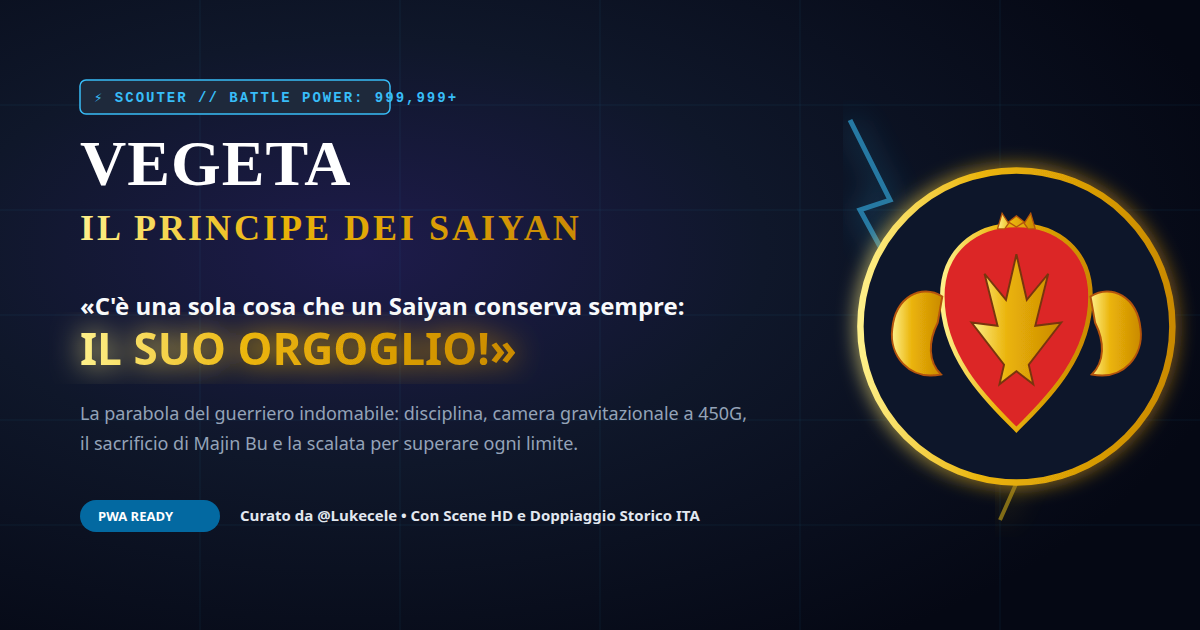
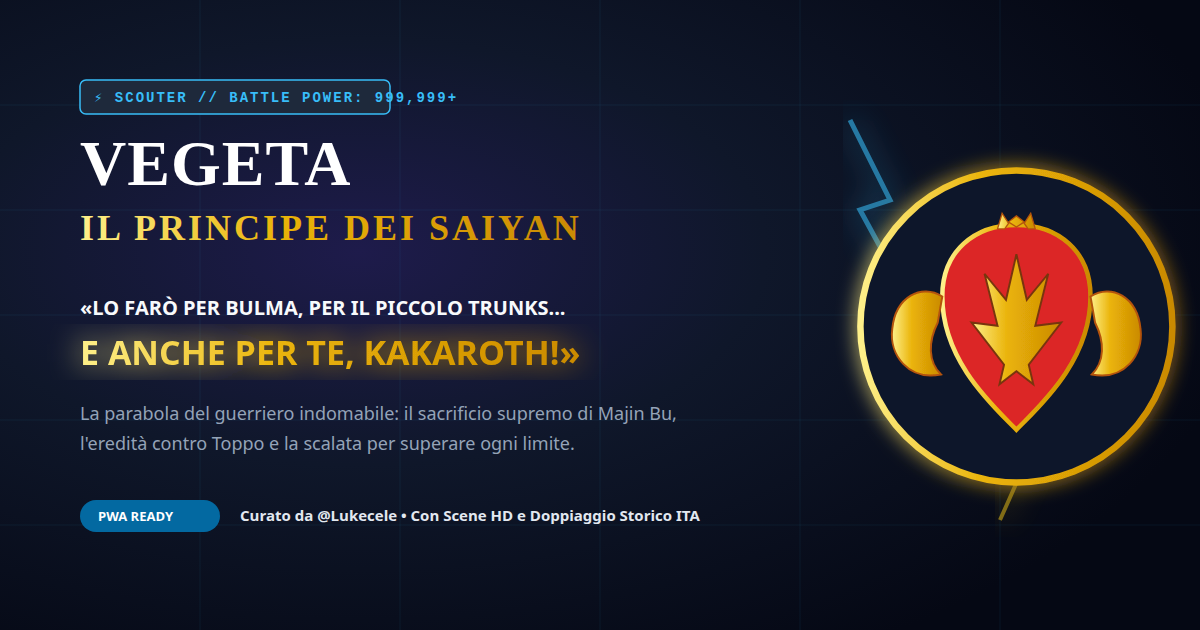
fix(metadata-manifest): align metadata, manifest PWA, og-image.png, and bump sw cache to v7

Changed region(s): [[0.0617, 0.4524, 0.5858, 0.6032], [0.0617, 0.6333, 0.6167, 0.7238]]

diff --git a/index.html b/index.html
@@ -6,7 +6,7 @@
   <title>Vegeta | «Lo farò per Bulma, per Trunks... e anche per te, Kakaroth!» – Il Sacrificio del Principe</title>
 
   <!-- SEO & Accessibility Metadata -->
-  <meta name="description" content="«Trunks... stammi a sentire: da quando sei nato non ti ho mai stretto a me, vero? Lascia che ti abbracci... Lo farò per Bulma, per il piccolo Trunks... E anche per te, Kakaroth!» Il portale definitivo sulla leggenda, il sacrificio supremo e l'allenamento a 450G di Vegeta con la voce di Gianluca Iacono." />
+  <meta name="description" content="«Trunks... stammi a sentire: da quando sei nato non ti ho mai stretto a me, vero? Lascia che ti abbracci... Lo farò per Bulma, per il piccolo Trunks... E anche per te, Kakaroth!» Il portale definitivo sul sacrificio supremo contro Majin Bu, le metamorfosi e le scene cult di Vegeta con la voce di Gianluca Iacono." />
   <meta name="keywords" content="Vegeta, Principe dei Saiyan, Dragon Ball Z, Majin Vegeta, sacrificio vegeta, Gianluca Iacono, Final Flash, Akira Toriyama, Super Saiyan Blue, motivazionale, scouter over 9000" />
   <meta name="author" content="@Lukecele (GitHub)" />
   <meta name="theme-color" content="#050814" />
@@ -24,12 +24,14 @@
   <!-- Open Graph / Social Sharing -->
   <meta property="og:type" content="website" />
   <meta property="og:url" content="https://vegeta-site.vercel.app/" />
+  <meta property="og:site_name" content="Vegeta // Il Principe dei Saiyan" />
   <meta property="og:title" content="Vegeta | Il Sacrificio Supremo & L'Eredità del Principe" />
   <meta property="og:description" content="«Lo farò per Bulma... e per il piccolo Trunks... E anche per te, Kakaroth!» L'abbraccio a Trunks e l'esplosione per salvare la Terra: la scena più commovente e nobile di Vegeta." />
   <meta property="og:image" content="https://vegeta-site.vercel.app/assets/og-image.png" />
   <meta property="og:image:type" content="image/png" />
   <meta property="og:image:width" content="1200" />
   <meta property="og:image:height" content="630" />
+  <meta property="og:image:alt" content="Vegeta - Il Sacrificio del Principe" />
   <meta property="og:locale" content="it_IT" />
 
   <!-- Twitter / X Card -->
@@ -38,6 +40,7 @@
   <meta name="twitter:title" content="Vegeta | Il Sacrificio del Principe dei Saiyan" />
   <meta name="twitter:description" content="«Lo farò per Bulma, per il piccolo Trunks... E anche per te, Kakaroth!» Il momento più nobile di Dragon Ball Z con la voce di Gianluca Iacono." />
   <meta name="twitter:image" content="https://vegeta-site.vercel.app/assets/og-image.png" />
+  <meta name="twitter:image:alt" content="Vegeta - Il Sacrificio del Principe" />
 
   <!-- Performance Fonts: Cinzel, Plus Jakarta Sans, Orbitron (HUD) -->
   <link rel="preconnect" href="https://fonts.googleapis.com" />

diff --git a/script.js b/script.js
@@ -23,7 +23,7 @@ if ('speechSynthesis' in window) {
 if ('caches' in window) {
   caches.keys().then((keys) => {
     keys.forEach((key) => {
-      if (key !== 'vegeta-pwa-v6') {
+      if (key !== 'vegeta-pwa-v7') {
         console.log('[Cache Purge] Rimuovo cache obsoleta:', key);
         caches.delete(key);
       }

diff --git a/sw.js b/sw.js
@@ -1,7 +1,7 @@
 // sw.js – Service Worker per Vegeta: Il Principe dei Saiyan PWA
 // Strategia: Network-First per freschezza assoluta, con Cache Fallback per offline
 
-const CACHE_NAME = 'vegeta-pwa-v6';
+const CACHE_NAME = 'vegeta-pwa-v7';
 const STATIC_ASSETS = [
   '/',
   '/index.html?v=2.1.0',
